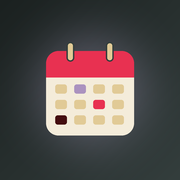
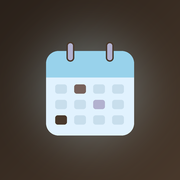
Add files via upload

Changed region(s): [[0.25, 0.2222, 0.75, 0.75]]

diff --git a/index.html b/index.html
@@ -7,7 +7,7 @@
 <link rel="manifest" href="manifest.webmanifest">
 <link rel="icon" href="icon-192.png" type="image/png">
 <link rel="apple-touch-icon" href="apple-touch-icon.png">
-<meta name="theme-color" content="#1b2120">
+<meta name="theme-color" content="#2a211a">
 <meta name="mobile-web-app-capable" content="yes">
 <meta name="apple-mobile-web-app-capable" content="yes">
 <meta name="apple-mobile-web-app-title" content="Planner">
@@ -16,30 +16,31 @@
 <script>try{var _t=localStorage.getItem("weeklyPlannerTheme");document.documentElement.dataset.theme=_t==="light"?"light":"dark"}catch(e){document.documentElement.dataset.theme="dark"}</script>
 <style>
 html{background:var(--bg)}
+/* Palette: 98d2eb sky blue, e1f2fe alice blue, b2b1cf periwinkle, 77625c taupe grey, 49392c taupe */
 :root,:root[data-theme="dark"]{
 color-scheme:dark;
---bg:#1b2120;--surface:#262f2e;--surface2:#343E3D;--line:#455250;--line-strong:#5a6966;
---ink:#F4ECDA;--ink-soft:#DCD2BC;--muted:#B9AD90;--muted2:#818B86;--track:#43504e;
---accent:#AB92BF;--accent-strong:#AB92BF;--accent2:#E83151;--sand:#E1CA96;--deep:#440D0F;
---study:#AB92BF;--class:#E1CA96;--lab:#E83151;--gym:#C56C9A;--travel:#8E9A96;--personal:#8FB3A3;--ok:#8FB3A3;
---miss:#F0627B;--miss-text:#A68A8E;--warn:#E1CA96;--hot:#E83151;
---grad:linear-gradient(135deg,#8a6aa6,#E83151);--grad-bar:linear-gradient(90deg,#AB92BF,#E83151);--on-accent:#fff;
---hover:#ffffff0d;--hover2:#ffffff17;--tint:#ffffff08;--tick:#1b2120;
---shadow-c:#000a;--backdrop:#000b;--glow1:#AB92BF3d;--glow2:#E8315124;
---page-bg:radial-gradient(900px 520px at 6% -8%,#AB92BF2e,transparent 70%),radial-gradient(760px 460px at 100% 0,#E831512a,transparent 70%),radial-gradient(900px 520px at 50% 118%,#440D0F,transparent 70%),#1b2120;
---h1-grad:linear-gradient(100deg,#F4ECDA,#E1CA96 55%,#AB92BF)}
+--bg:#2a211a;--surface:#352a21;--surface2:#49392c;--line:#5d4b3e;--line-strong:#77625c;
+--ink:#e1f2fe;--ink-soft:#c8dbe8;--muted:#b2b1cf;--muted2:#8d8590;--track:#5a483b;
+--accent:#98d2eb;--accent-strong:#98d2eb;--accent2:#b2b1cf;--sky:#98d2eb;--peri:#b2b1cf;
+--study:#b2b1cf;--class:#98d2eb;--lab:#E0A184;--gym:#D69BB5;--travel:#A8938C;--personal:#8CC4AE;--ok:#8CC4AE;
+--miss:#EE8E8E;--miss-text:#a8908f;--warn:#E6C98F;--hot:#EE9A6B;
+--grad:linear-gradient(135deg,#98d2eb,#b2b1cf);--grad-bar:linear-gradient(90deg,#98d2eb,#b2b1cf);--on-accent:#3a2d22;
+--hover:#ffffff0d;--hover2:#ffffff17;--tint:#ffffff08;--tick:#2a211a;
+--shadow-c:#000a;--backdrop:#1c1510cc;--glow1:#98d2eb3a;--glow2:#b2b1cf2a;
+--page-bg:radial-gradient(900px 520px at 6% -8%,#98d2eb2a,transparent 70%),radial-gradient(760px 460px at 100% 0,#b2b1cf26,transparent 70%),radial-gradient(900px 520px at 50% 118%,#77625c55,transparent 70%),#2a211a;
+--h1-grad:linear-gradient(100deg,#e1f2fe,#98d2eb 55%,#b2b1cf)}
 :root[data-theme="light"]{
 color-scheme:light;
---bg:#F6EFDF;--surface:#FFFBF2;--surface2:#FBF3E1;--line:#E1CA96;--line-strong:#C9AE6E;
---ink:#343E3D;--ink-soft:#4B5755;--muted:#626A62;--muted2:#9A9F95;--track:#EADCB6;
---accent:#AB92BF;--accent-strong:#8C6AA8;--accent2:#E83151;--sand:#E1CA96;--deep:#440D0F;
---study:#7D5F9B;--class:#A5802F;--lab:#D4203F;--gym:#A8487A;--travel:#5F6C68;--personal:#3F7560;--ok:#3F7560;
---miss:#C41E3D;--miss-text:#9B7F84;--warn:#8A5A00;--hot:#E83151;
---grad:linear-gradient(135deg,#8C6AA8,#E83151);--grad-bar:linear-gradient(90deg,#AB92BF,#E83151);--on-accent:#fff;
---hover:#440D0F0d;--hover2:#440D0F17;--tint:#E1CA9633;--tick:#FFFBF2;
---shadow-c:#440D0F40;--backdrop:#343E3D99;--glow1:#AB92BF55;--glow2:#E8315122;
---page-bg:radial-gradient(900px 520px at 6% -8%,#E1CA96aa,transparent 70%),radial-gradient(760px 460px at 100% 0,#AB92BF55,transparent 70%),radial-gradient(900px 520px at 50% 118%,#E8315118,transparent 70%),#F6EFDF;
---h1-grad:linear-gradient(100deg,#440D0F,#E83151 70%)}
+--bg:#e1f2fe;--surface:#f5fbff;--surface2:#eaf6ff;--line:#bcdcee;--line-strong:#8fb9d3;
+--ink:#49392c;--ink-soft:#5f4d42;--muted:#6f5b55;--muted2:#9a8d8a;--track:#c9e2f1;
+--accent:#98d2eb;--accent-strong:#5aa3c8;--accent2:#b2b1cf;--sky:#98d2eb;--peri:#b2b1cf;
+--study:#6a68a3;--class:#2f81a8;--lab:#a85e3c;--gym:#9a5578;--travel:#77625c;--personal:#3c7a66;--ok:#3c7a66;
+--miss:#b3403f;--miss-text:#9a8283;--warn:#8a5a00;--hot:#c0532b;
+--grad:linear-gradient(135deg,#98d2eb,#b2b1cf);--grad-bar:linear-gradient(90deg,#98d2eb,#b2b1cf);--on-accent:#3a2d22;
+--hover:#49392c0d;--hover2:#49392c17;--tint:#98d2eb22;--tick:#f5fbff;
+--shadow-c:#49392c33;--backdrop:#49392c88;--glow1:#98d2eb77;--glow2:#b2b1cf66;
+--page-bg:radial-gradient(900px 520px at 6% -8%,#98d2eb99,transparent 70%),radial-gradient(760px 460px at 100% 0,#b2b1cf66,transparent 70%),radial-gradient(900px 520px at 50% 118%,#77625c22,transparent 70%),#e1f2fe;
+--h1-grad:linear-gradient(100deg,#49392c,#77625c 55%,#5f7fa8)}
 :root{box-sizing:border-box;padding-top:env(safe-area-inset-top,0px);padding-bottom:env(safe-area-inset-bottom,0px)}
 html{height:auto;scroll-padding-top:env(safe-area-inset-top,0px)}
 *,*::before,*::after{box-sizing:inherit}
@@ -494,7 +495,7 @@ function cue(name){
 function confetti(x,y){
   const c=$("fx"),ctx=c.getContext("2d"),dpr=devicePixelRatio||1;
   c.width=innerWidth*dpr;c.height=innerHeight*dpr;ctx.setTransform(dpr,0,0,dpr,0,0);
-  const cols=["#AB92BF","#E83151","#E1CA96","#C56C9A","#8FB3A3"];
+  const cols=["#98d2eb","#b2b1cf","#77625c","#E6C98F","#D69BB5"];
   const ps=Array.from({length:120},()=>({x,y,vx:(Math.random()-.5)*15,vy:-Math.random()*13-4,w:5+Math.random()*6,h:3+Math.random()*5,r:Math.random()*6,vr:(Math.random()-.5)*.4,c:cols[Math.random()*5|0],l:0}));
   let t0=performance.now();
   (function f(t){
@@ -744,7 +745,7 @@ document.addEventListener("visibilitychange",()=>{if(!document.hidden)checkNotif
 const htmlEl=document.documentElement;
 function applyTheme(t,save){
   htmlEl.dataset.theme=t;
-  const m=document.querySelector('meta[name="theme-color"]');if(m)m.content=t==="light"?"#F6EFDF":"#1b2120";
+  const m=document.querySelector('meta[name="theme-color"]');if(m)m.content=t==="light"?"#e1f2fe":"#2a211a";
   $("themeBtn").setAttribute("aria-label",t==="light"?"Switch to dark theme":"Switch to light theme");
   if(save){try{localStorage.setItem("weeklyPlannerTheme",t)}catch(e){}}
 }

diff --git a/sw.js b/sw.js
@@ -1,5 +1,5 @@
 // Bump this number whenever you update index.html so phones refresh their saved copy.
-const CACHE = "weekly-planner-v10";
+const CACHE = "weekly-planner-v11";
 const FILES = ["./", "./index.html", "./manifest.webmanifest", "./icon-192.png", "./icon-512.png", "./apple-touch-icon.png"];
 
 self.addEventListener("install", e => {
